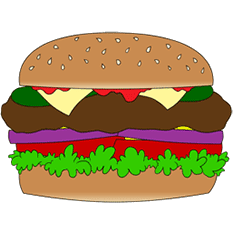
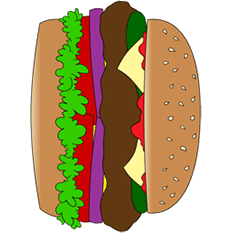
Hamburgers rotation

diff --git a/TabletopBurgers/TabletopBurgers/SurfaceWindow1.xaml b/TabletopBurgers/TabletopBurgers/SurfaceWindow1.xaml
@@ -6,12 +6,27 @@
     >
     
     <s:SurfaceWindow.Resources>
+        <Storyboard x:Key="imageRotationStoryboard" Storyboard.TargetName="CenterImage" Storyboard.TargetProperty="RenderTransform.(RotateTransform.Angle)">
+            <DoubleAnimation From="0" To="360" BeginTime="0:0:0" Duration="0:0:5" RepeatBehavior="Forever" />
+        </Storyboard>
+        
         <DataTemplate x:Key="ImageOnlyTemplate">
             <Image Source="{Binding Source}"  MaxWidth="40" MaxHeight="40" ToolTip="{Binding Caption}"/>
         </DataTemplate>
 
         <DataTemplate x:Key="BurgerImage">
-            <Image Source="{Binding Source}"  MaxWidth="110" MaxHeight="110" ToolTip="{Binding Caption}"/>
+            <Image Source="{Binding Source}" Name="CenterImage" MaxWidth="110" MaxHeight="110"  RenderTransformOrigin="0.5, 0.5" ToolTip="{Binding Caption}">
+                <Image.Triggers>
+                    <EventTrigger RoutedEvent="FrameworkElement.Loaded">
+                        <EventTrigger.Actions>
+                            <BeginStoryboard Storyboard="{StaticResource imageRotationStoryboard}" />
+                        </EventTrigger.Actions>
+                    </EventTrigger>
+                </Image.Triggers>
+                <Image.RenderTransform>
+                    <RotateTransform Angle="0" />
+                </Image.RenderTransform>
+            </Image>         
         </DataTemplate>
 
         <DataTemplate x:Key="ScatterViewImage">

diff --git a/TabletopBurgers/TabletopBurgers/SurfaceWindow1.xaml.cs b/TabletopBurgers/TabletopBurgers/SurfaceWindow1.xaml.cs
@@ -223,6 +223,11 @@ namespace Drag_and_Drop
             BurgerItems.Add(new PhotoData("Images/Burger3.png", "Ready from the kitchen", 70));
             BurgerItems.Add(new PhotoData("Images/Burger4.png", "Grilled texan", 70));
             BurgerItems.Add(new PhotoData("Images/FinalBurgerTS.png", "Deluxe cheddar", 70));
+            BurgerItems.Add(new PhotoData("Images/Burger1TS.png", "King burger", 70));
+            BurgerItems.Add(new PhotoData("Images/Burger2TS.png", "Popular choice", 70));
+            BurgerItems.Add(new PhotoData("Images/Burger3.png", "Ready from the kitchen", 70));
+            BurgerItems.Add(new PhotoData("Images/Burger4.png", "Grilled texan", 70));
+            BurgerItems.Add(new PhotoData("Images/FinalBurgerTS.png", "Deluxe cheddar", 70));
         }
 
         /// <summary>
